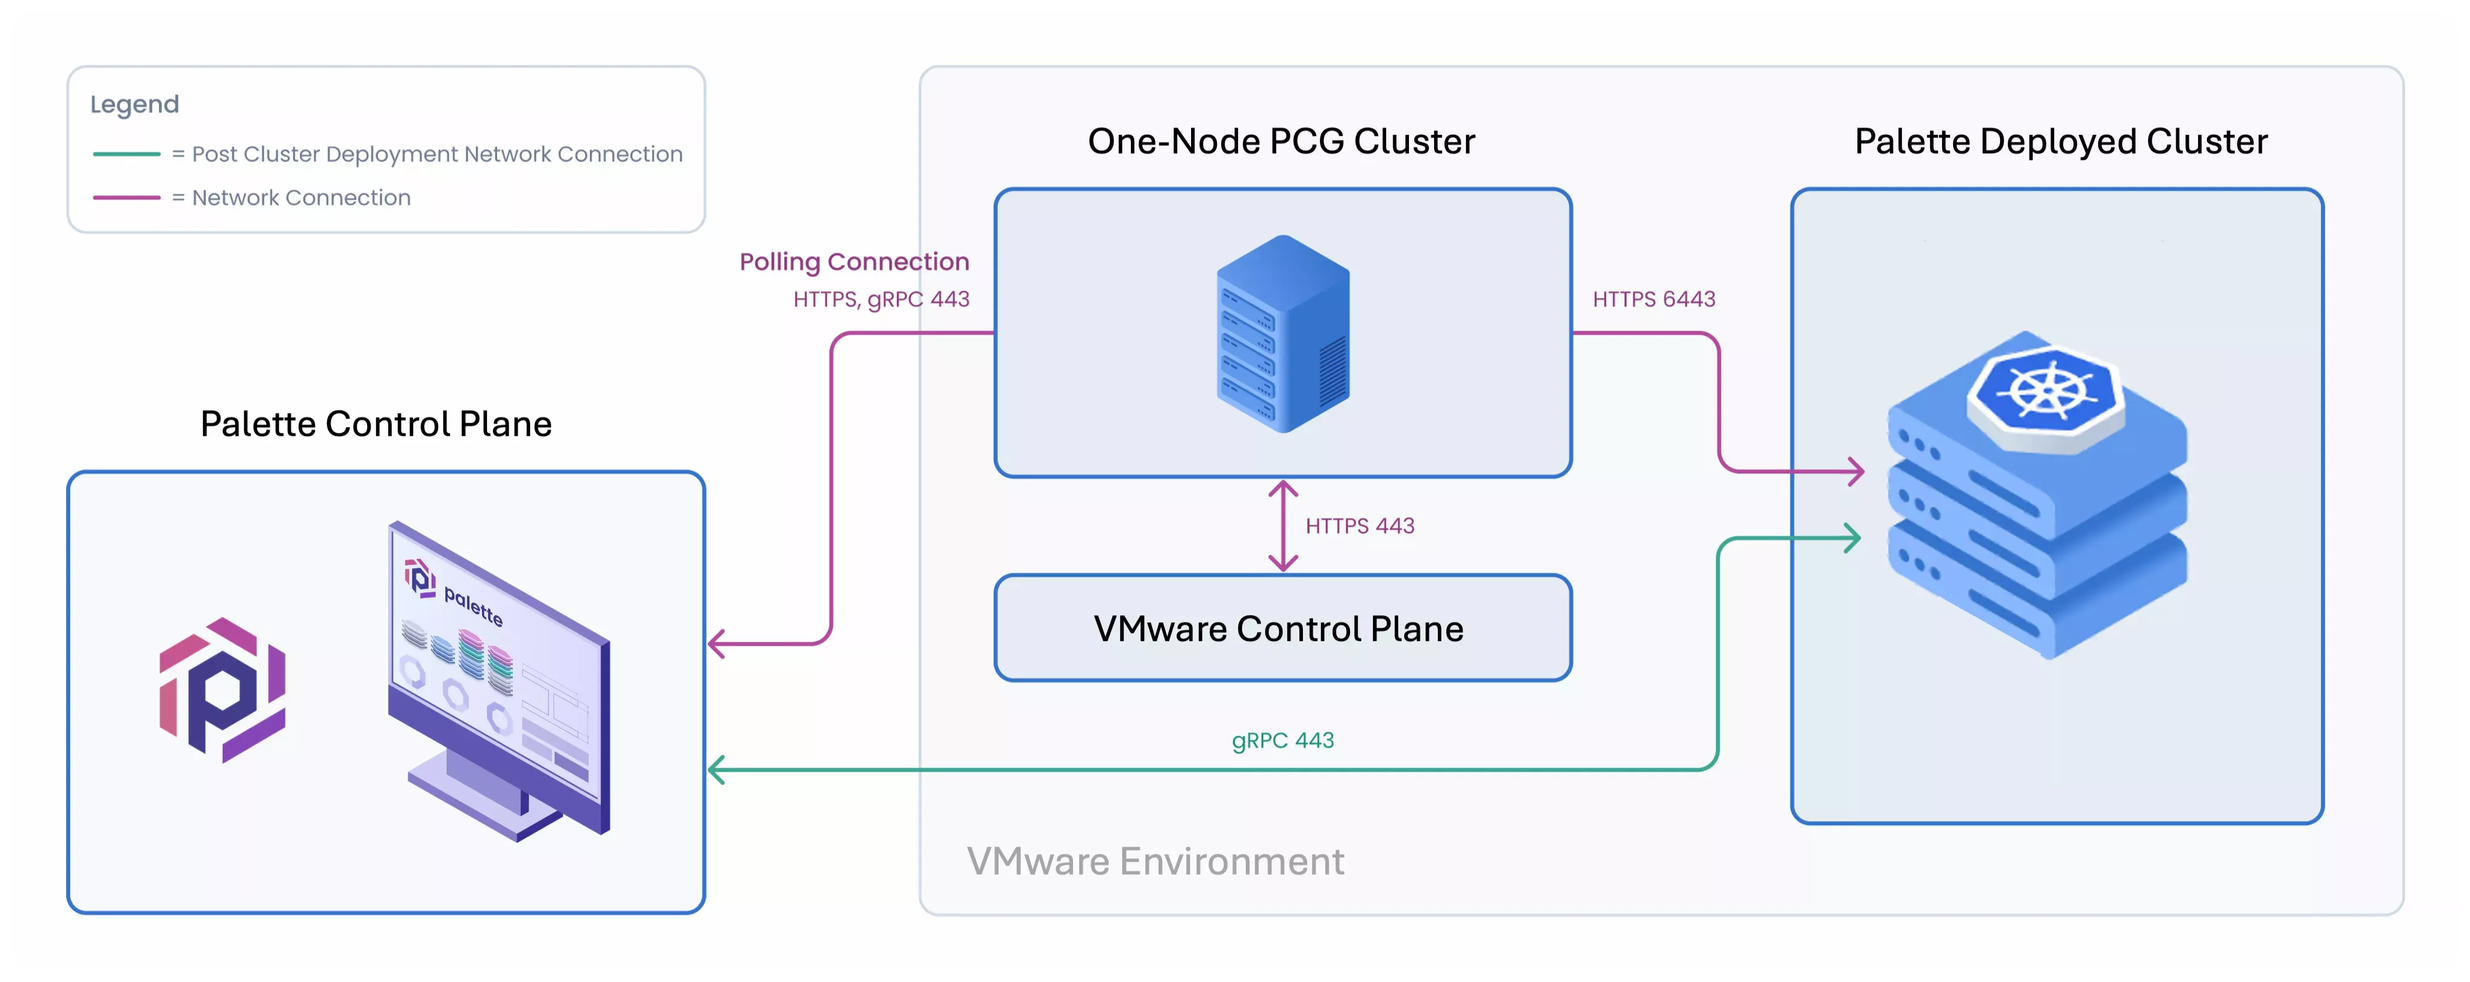
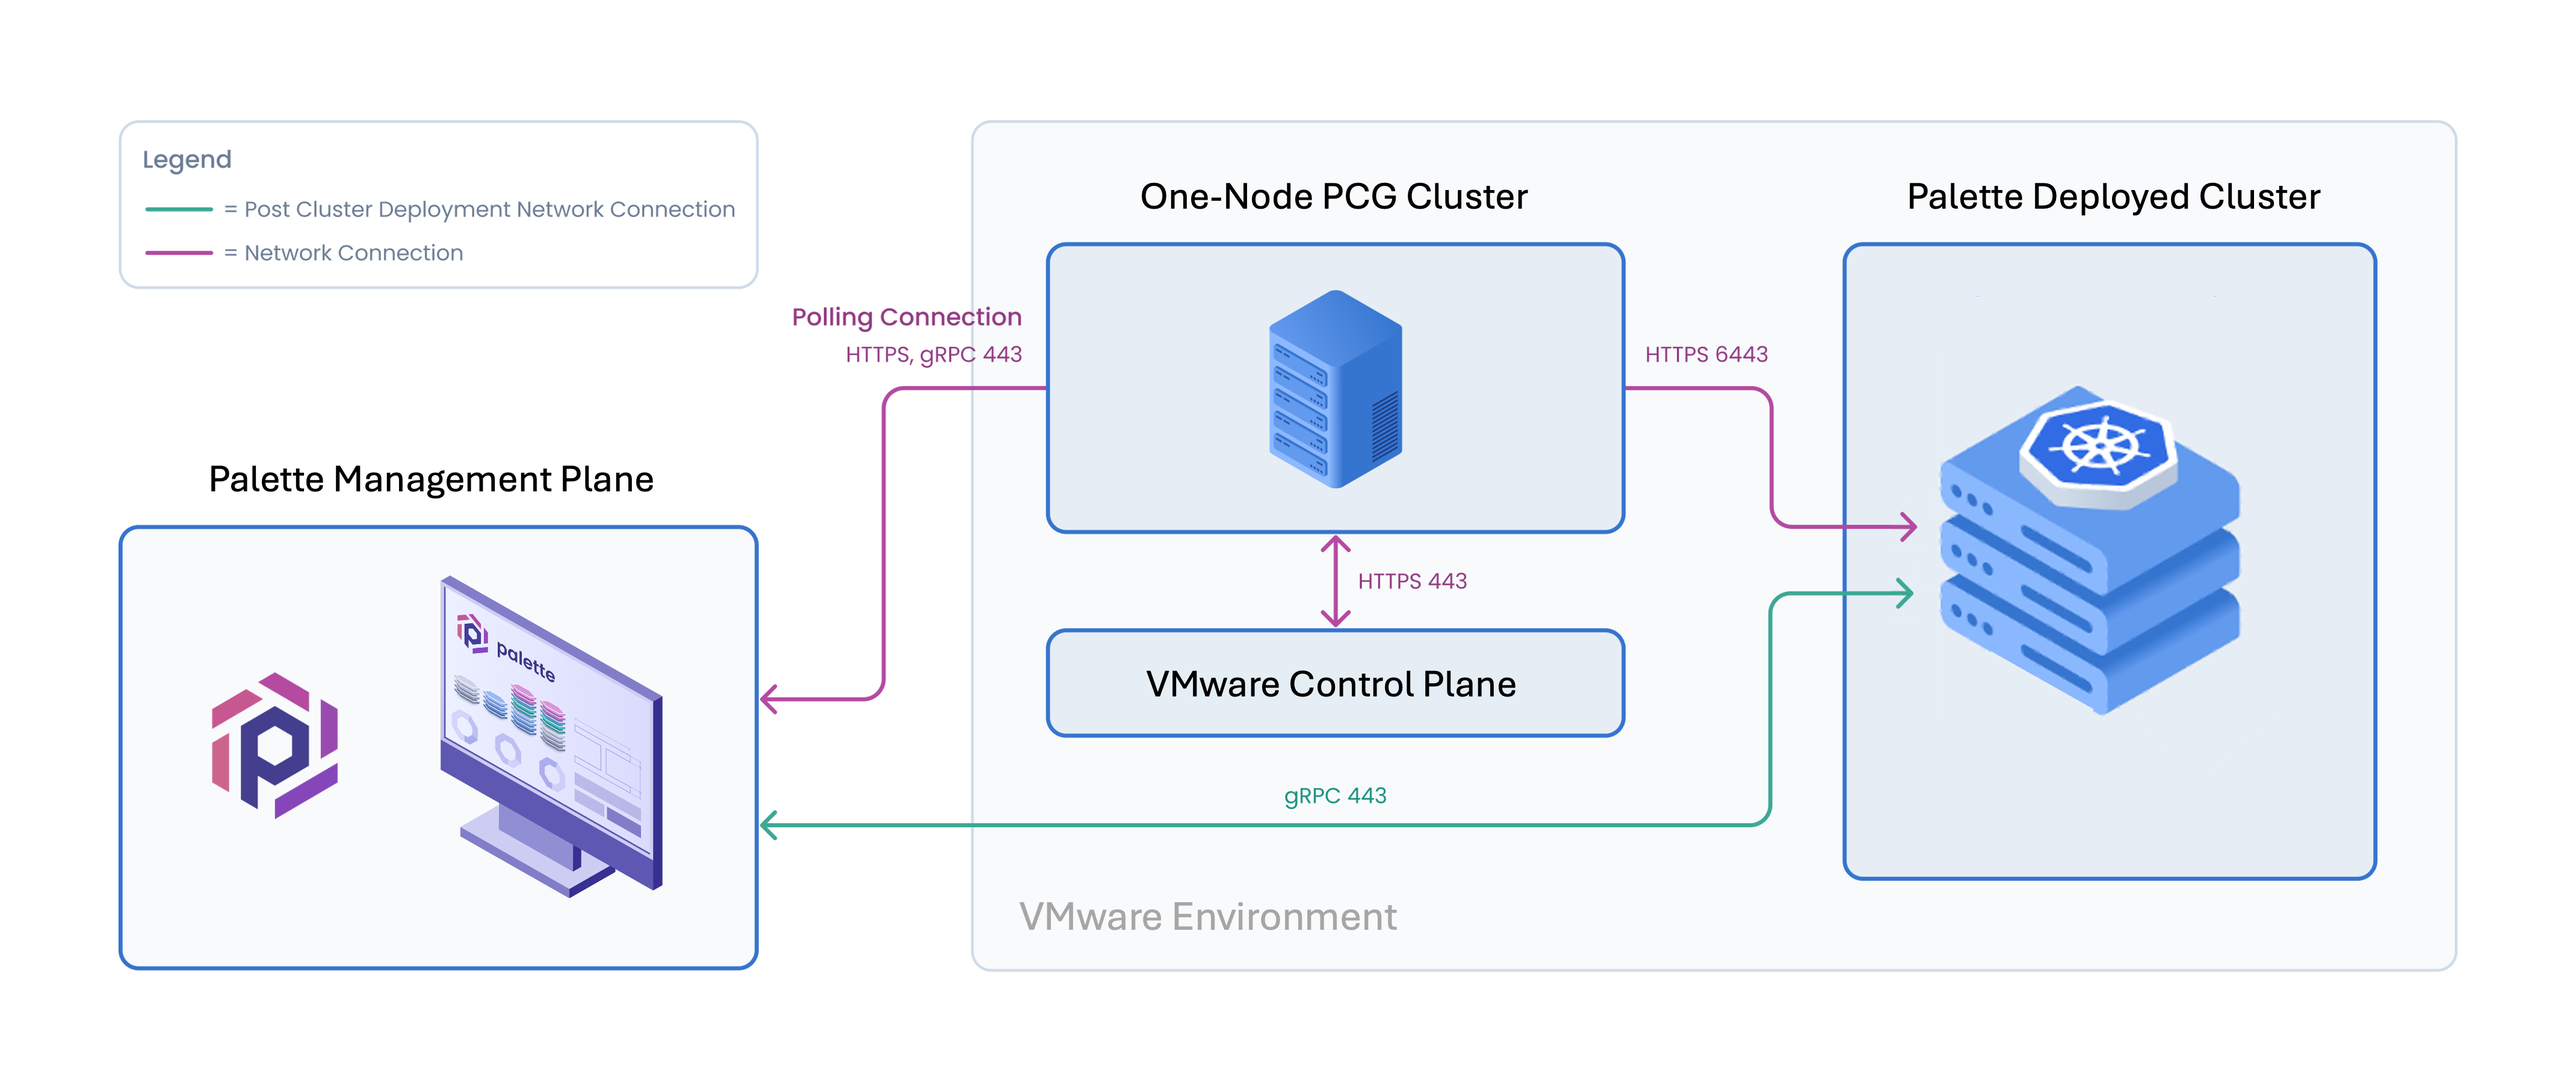
docs: replace palette control plane with management plane in pcg diagrams

diff --git a/docs/docs-content/clusters/pcg/architecture.md b/docs/docs-content/clusters/pcg/architecture.md
@@ -14,9 +14,9 @@ in a private network that blocks connections originating externally. The PCG con
 endpoint, allowing you to target the environment when deploying clusters in Palette.
 
 When installed, the PCG registers with the self-hosted or SaaS Palette instance you specify, enabling secure
-communication between the Palette control management plane and the private cloud environment. The PCG enables the
-deployment and removal of Kubernetes clusters in private cloud environments through the Palette user interface, API,
-CLI, or Terraform provider.
+communication between the Palette management plane and the private cloud environment. The PCG enables the deployment and
+removal of Kubernetes clusters in private cloud environments through the Palette user interface, API, CLI, or Terraform
+provider.
 
 ![An architecture diagram of PCG](/clusters_pcg_architecture_overview_diagram.webp)
 

diff --git a/docs/docs-content/clusters/pcg/deploy-app-pcg.md b/docs/docs-content/clusters/pcg/deploy-app-pcg.md
@@ -8,7 +8,7 @@ hide_table_of_contents: false
 toc_min_heading_level: 2
 toc_max_heading_level: 2
 sidebar_position: 50
-tags: ["pcg"]
+tags: ["pcg", "tutorial"]
 ---
 
 Palette Private Cloud Gateway (PCG) is a crucial infrastructure support component that acts as a bridge between your
